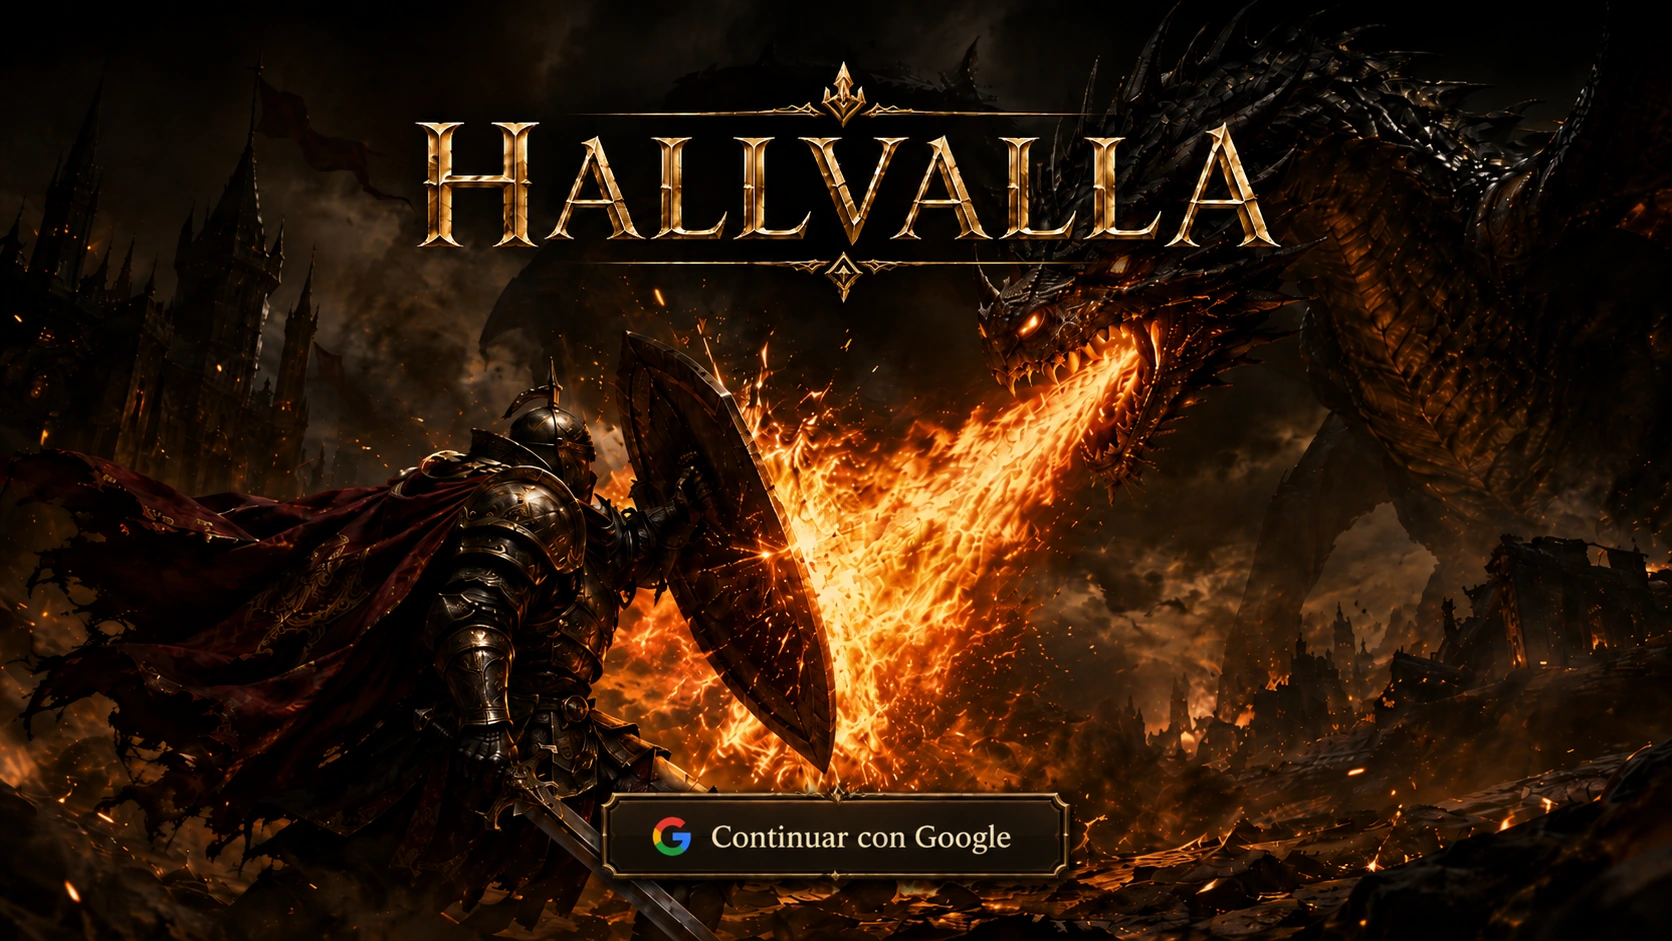
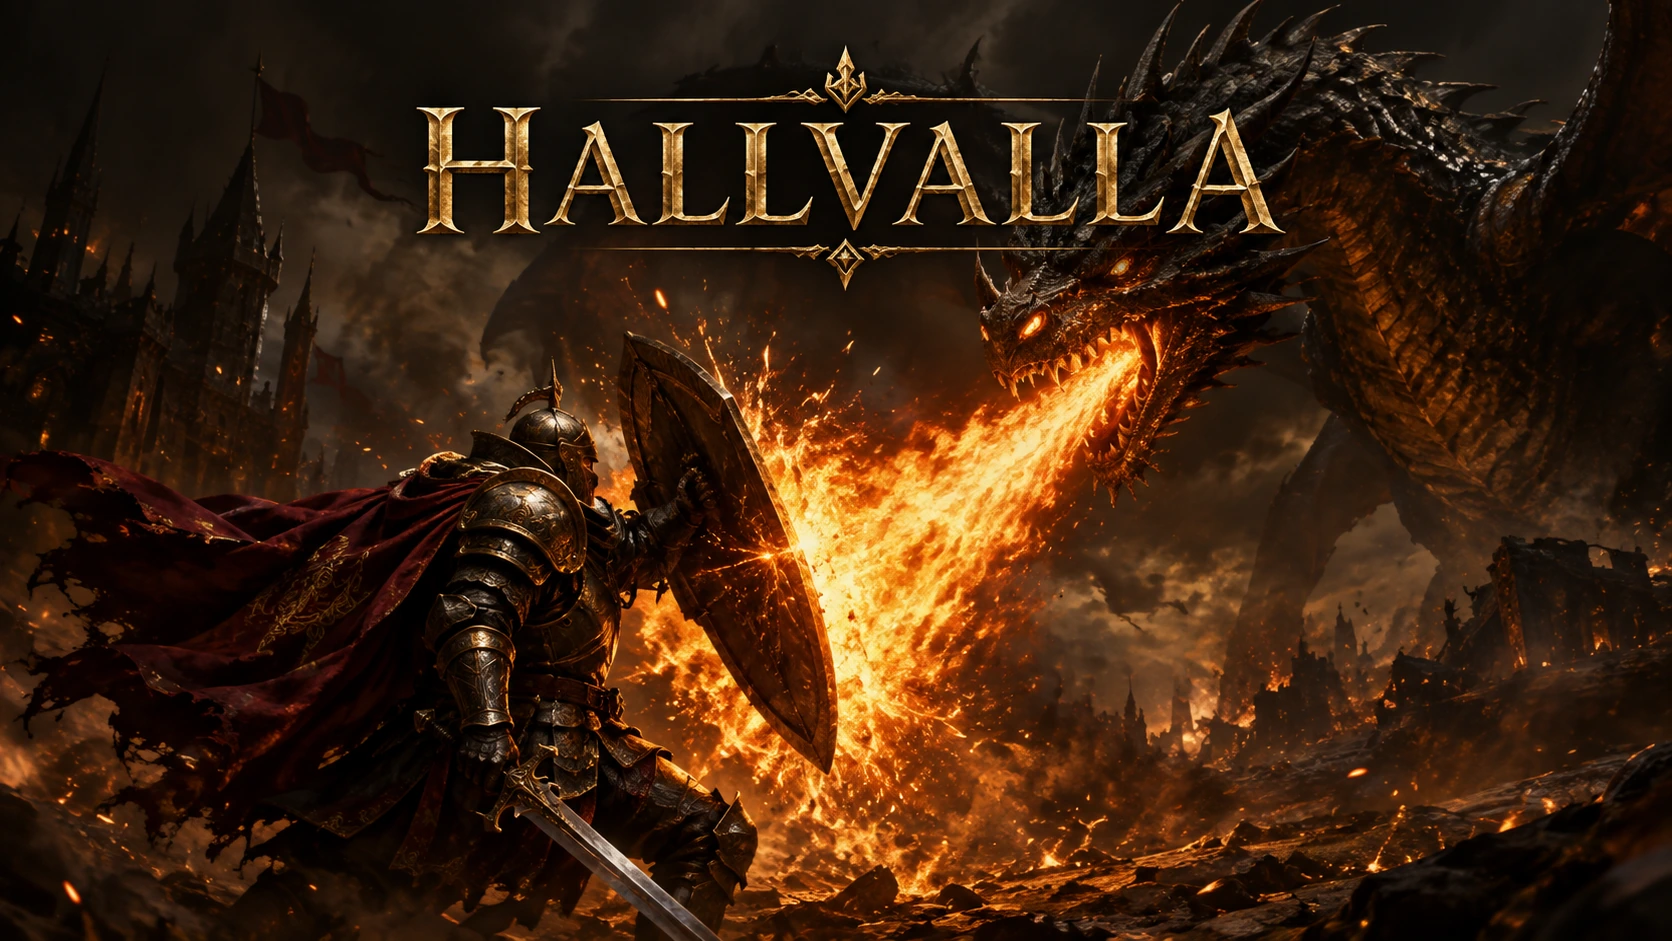
Fix 3 google account

diff --git a/styles.css b/styles.css
@@ -25353,41 +25353,76 @@ body.hv-google-auth-required #accountPanel{z-index:10050!important;}
   position:fixed;
   inset:0;
   z-index:120000;
+  width:100vw;
+  height:100vh;
+  height:100dvh;
   overflow:hidden;
-  background:#000 url("assets/home/hallvalla_login_google.webp") center center / cover no-repeat;
+  background:#000;
+  isolation:isolate;
 }
 .hv-google-login-splash.hidden{display:none!important;}
+.hv-google-login-splash-bg{
+  position:absolute;
+  inset:0;
+  z-index:0;
+  width:100%;
+  height:100%;
+  object-fit:cover;
+  object-position:center center;
+  display:block;
+  pointer-events:none;
+  user-select:none;
+  -webkit-user-drag:none;
+}
 .hv-google-login-splash-btn{
   position:absolute;
+  z-index:2;
   left:50%;
-  bottom:clamp(46px,8.1vh,84px);
+  bottom:max(clamp(24px,7dvh,64px),calc(env(safe-area-inset-bottom,0px) + 14px));
   transform:translateX(-50%);
-  width:min(78vw,49vh);
-  max-width:500px;
-  min-width:250px;
-  height:clamp(58px,8.8vh,92px);
+  width:clamp(300px,32vw,500px);
+  height:auto;
+  margin:0;
   padding:0;
   border:0;
-  border-radius:14px;
+  outline:0;
   background:transparent;
+  box-shadow:none;
+  appearance:none;
+  -webkit-appearance:none;
   cursor:pointer;
-  color:transparent;
+  line-height:0;
   -webkit-tap-highlight-color:transparent;
 }
-.hv-google-login-splash-btn:hover,
-.hv-google-login-splash-btn:focus-visible{
-  outline:2px solid rgba(255,214,120,.72);
-  outline-offset:3px;
-  box-shadow:0 0 22px rgba(255,152,42,.35);
+.hv-google-login-splash-btn-art{
+  display:block;
+  width:100%;
+  height:auto;
+  object-fit:contain;
+  pointer-events:none;
+  user-select:none;
+  -webkit-user-drag:none;
+  filter:drop-shadow(0 6px 16px rgba(0,0,0,.58));
+  transition:transform .16s ease,filter .16s ease,opacity .16s ease;
 }
-.hv-google-login-splash-btn:disabled{cursor:wait;opacity:.7;}
+.hv-google-login-splash-btn:hover .hv-google-login-splash-btn-art,
+.hv-google-login-splash-btn:focus-visible .hv-google-login-splash-btn-art{
+  transform:scale(1.025);
+  filter:brightness(1.08) drop-shadow(0 7px 20px rgba(0,0,0,.62));
+}
+.hv-google-login-splash-btn:focus-visible{
+  outline:2px solid rgba(255,214,120,.78);
+  outline-offset:4px;
+}
+.hv-google-login-splash-btn:active .hv-google-login-splash-btn-art{transform:scale(.985);}
+.hv-google-login-splash-btn:disabled{cursor:wait;}
+.hv-google-login-splash-btn:disabled .hv-google-login-splash-btn-art{opacity:.72;}
 body.hv-google-auth-required{overflow:hidden!important;}
 body.hv-google-auth-required #accountPanel{display:none!important;}
 @media (max-width:620px){
-  .hv-google-login-splash{background-position:center center;}
+  .hv-google-login-splash-bg{object-position:52% center;}
   .hv-google-login-splash-btn{
-    width:min(82vw,49vh);
-    min-width:230px;
-    bottom:clamp(42px,8vh,72px);
+    width:min(78vw,420px);
+    bottom:max(clamp(20px,6dvh,50px),calc(env(safe-area-inset-bottom,0px) + 12px));
   }
 }

diff --git a/index.html b/index.html
@@ -8,7 +8,7 @@
 <meta name="hallvalla-version" content="20260826.1">
 <meta name="hallvalla-build" content="v8_MODULAR_20260823.3">
 <meta name="hallvalla-build-name" content="STAGE 9 · Limpieza técnica controlada · DEV tooling aislado · código muerto comprobado">
-<link rel="stylesheet" href="styles.css?v=20260826.1"/>
+<link rel="stylesheet" href="styles.css?v=20260826.3"/>
 
 <link rel="icon" href="data:,">
 </head>
@@ -16,7 +16,10 @@
 <body>
 
 <div id="googleLoginSplash" class="hv-google-login-splash" role="dialog" aria-modal="true" aria-label="Acceso a HallValla">
-  <button id="googleLoginSplashBtn" class="hv-google-login-splash-btn" type="button" aria-label="Continuar con Google" title="Continuar con Google"></button>
+  <img class="hv-google-login-splash-bg" src="assets/home/hallvalla_login_google.webp" alt="" aria-hidden="true">
+  <button id="googleLoginSplashBtn" class="hv-google-login-splash-btn" type="button" aria-label="Continuar con Google" title="Continuar con Google">
+    <img class="hv-google-login-splash-btn-art" src="assets/home/continuar_con_google_boton.webp" alt="Continuar con Google">
+  </button>
 </div>
 
 <div id="mainMenu" class="asset-home">
